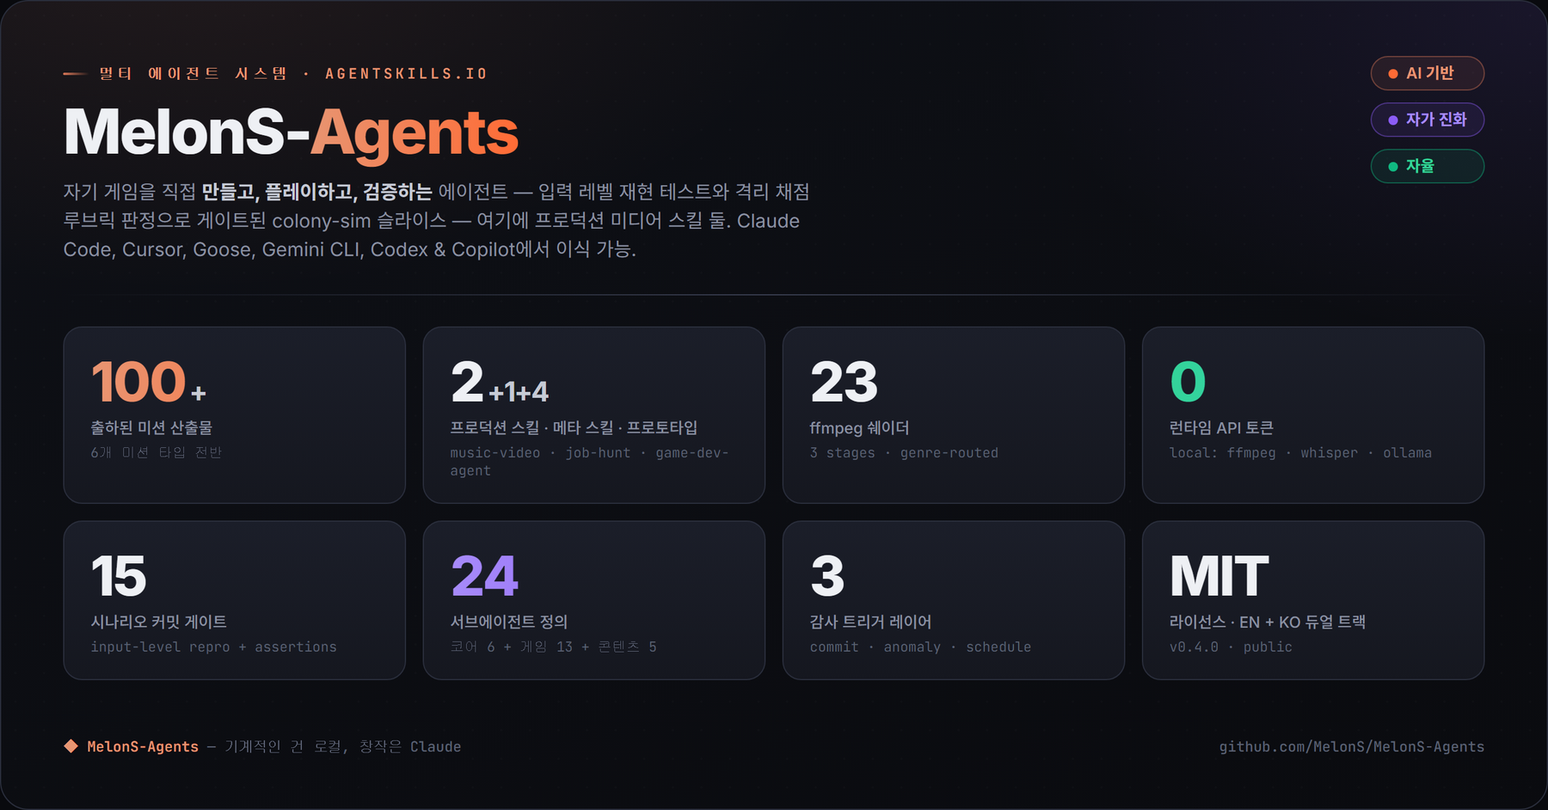
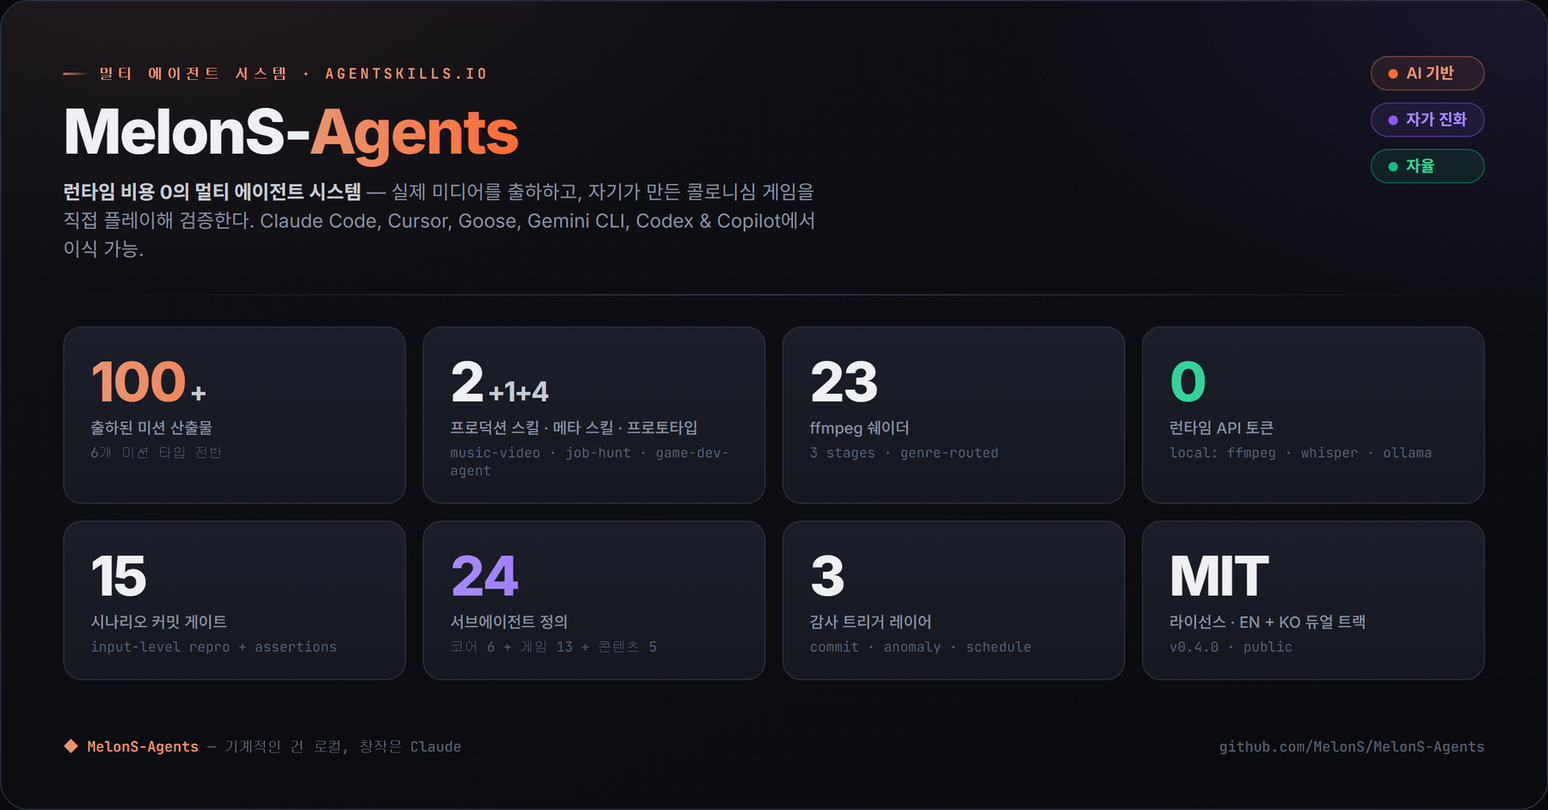
docs(readme): reframe identity to a system that ships + self-verifies (EN+KO)
The previous lead framed the whole repo as "an agent that builds a colony-sim
game" — too narrow. The repo is a zero-runtime-cost multi-agent SYSTEM whose
production tracks (music-video, job-hunt) actually ship, and whose self-
verification loop is the differentiator, not the identity.

- New lead (EN+KO): "a zero-runtime-cost multi-agent system that ships real
  work — and proves its rigor by building a game, then playing it to verify."
- Promote self-verification to right after the status table ("the part most
  agent demos skip"), moving the assert/soak/grader jargon out of the opening.
- Rename Architecture -> "How it stays at zero runtime cost".
- Add an honest bullet: "100+ outputs" is a working estimate, not an auditable
  ledger (records/ is gitignored).
- Regenerate the hero infographic (EN+KO) with a matching framework-first
  subtitle.

Changed region(s): [[0.0311, 0.2155, 0.5289, 0.3386]]

diff --git a/README.ko.md b/README.ko.md
@@ -4,9 +4,9 @@
 
 **한국어** | [English](./README.md) · [**라이브 사이트 →**](https://melons.github.io/MelonS-Agents/)
 
-**콜로니심 게임을 직접 만들고 — 그걸 플레이해서 자기 작업을 검증하는 AI 에이전트.**  실제 플레이어 클릭을 합성해 각 클릭이 (단지 클릭이 도달한 게 아니라) 실제로 게임 상태를 바꿨는지 어서트하고, 길게 무인으로 돌린 소크는 스크린샷과 로그만 보고 — 작성자의 의도는 절대 보지 않고 — 판정하는 별도 서브에이전트가 채점합니다.
+### 런타임 비용 0으로 실제 결과물을 출하하고 — 게임을 직접 만든 뒤 플레이해서 자기 작업을 검증하는 멀티 에이전트 시스템.
 
-이 자기 검증 루프가 MelonS-Agents 의 척추입니다 — [Claude Code](https://docs.anthropic.com/claude-code) 로 구동되는 멀티 에이전트 시스템.  콜로니심 **PawnSim**(Windows + Unity, *개발 중*)이 쇼케이스이고, 두 미디어 파이프라인은 이미 실제 결과물을 출하합니다 — **music-video** 메이커(음악 → 60초 9:16 쇼츠, Mac/Linux 에서 ~60초)와 **job-hunt** 다이제스트(키워드 하나 → 중복 제거된 한국 채용공고 요약, ~5초) — 여기에 세 번째로 저작권 검수를 거치는 **content-shorts** 파이프라인이 초기 개발 중입니다.  로컬 오픈소스 도구(ffmpeg / whisper.cpp / ollama / aubio)가 기계적 작업을 하고 Claude 는 오케스트레이션 + 창작 판단을 맡아 — 미션당 **런타임 API 토큰 0개**.  첫날부터 영어 + 한국어.
+운영자 한 명, [Claude Code](https://docs.anthropic.com/claude-code) 에이전트 함대.  두 파이프라인이 이미 실제 결과물을 출하합니다 — **music-video** 메이커(음악 → 60초 9:16 쇼츠)와 **job-hunt** 다이제스트(키워드 → 중복 제거된 한국 채용공고 요약) — 전부 로컬 오픈소스 도구(ffmpeg / whisper.cpp / ollama / aubio)로 만들어 미션당 **런타임 API 토큰 0개**.  쇼케이스 트랙인 콜로니심 **PawnSim** 이 이 저장소를 남다르게 만드는 특성을 품고 있습니다: 에이전트가 게임을 *직접 만들고*, 그걸 *플레이해서* 자기 작업을 검증합니다.  **첫날부터 영어 + 한국어.**
 
 [![main-protection](https://github.com/MelonS/MelonS-Agents/actions/workflows/main-protection.yml/badge.svg?branch=main)](https://github.com/MelonS/MelonS-Agents/actions/workflows/main-protection.yml)
 ![GitHub last commit](https://img.shields.io/github/last-commit/MelonS/MelonS-Agents?style=flat-square)
@@ -32,9 +32,20 @@
 | **content-shorts** · 4팀 법률 게이트 파이프라인이 제작 | 주제 → 출처 확보·저작권 검수된 9:16 쇼츠 (정보/뉴스/아이돌 포맷) | 개발 중 | ⚠ end-to-end 작동(2026-07-01), Pexels 키 필요 |
 | **product-cf** | 제품 사진 → CF 스타일 쇼츠 | 보류 | ❌ 정직한 부정 결론으로 보류 |
 
-<sub>\*"프로덕션" = 정해진 주기로 실제 결과물을 출하 (이 둘이 핵심 카운트).  `game-dev-agent` 는 PawnSim 을 만드는 메타 스킬 — PawnSim 이 출하 주기에 도달하면 프로덕션 카운트로 승격됩니다.</sub>
+<sub>\*"프로덕션" = 정해진 주기로 실제 결과물을 출하 (오늘 기준 이 둘만 해당).  `game-dev-agent` 는 PawnSim 을 만드는 메타 스킬 — PawnSim 이 출하 주기에 도달하면 프로덕션 카운트로 합류합니다.</sub>
 
-**핵심 용어** — *재현 게이트(repro gate)*: 에이전트가 실제 플레이어 클릭을 재생하고, 클릭이 도달했는지가 아니라 각 클릭이 효과를 냈는지를 어서트합니다.  *격리 채점(isolated grader)*: 작성자의 의도가 아니라 스크린샷 + 로그만으로 실행을 판정하는 별도 서브에이전트.  *소크(soak)*: 길게 돌리는 무인 테스트 런.
+## 대부분의 에이전트 데모가 건너뛰는 부분: 자기 작업을 스스로 검증한다
+
+![검증 — 두 게이트: 커밋마다 15시나리오 입력 레벨 재현 게이트 + 장시간 소크에 격리 채점 서브에이전트](docs/visuals/14-verification-loop-ko.png)
+
+에이전트가 코드를 *뱉게* 만드는 건 누구나 한다. 어려운 건 결과가 실제로 작동함을 *증명*하는 것 — 그게 이 저장소의 척추입니다.  PawnSim 은 들어오는 길에 두 게이트를 통과합니다:
+
+- **커밋마다 15시나리오 재현 게이트.**  에이전트가 플레이어와 똑같은 UI 경로로 실제 클릭을 합성하고, 각 클릭이 (단지 도달한 게 아니라) *효과*를 냈는지 — "그 클릭이 지정(designation)을 놓았는지" — 어서트합니다.
+- **장시간 무인 소크에 격리 채점 서브에이전트.**  증거(스크린샷 + 원시 로그)만 보고 작성자의 의도는 절대 보지 않으며, 작성된 루브릭에 따라 실행을 채점합니다.
+
+이 채점기는 셀프 리뷰가 놓친 것을 반복해서 잡아냈습니다: 모든 지정을 조용히 무효화하던 하네스 사각지대, "식량이 넘치는데 콜로니가 굶어 죽는" 기분 게이트 함정, 영구 정신 붕괴로 인한 콜로니 프리즈.  기본 루프(저장 → 집짓기 → 농사 → 벌목 → 채광)는 이제 엔드투엔드 기계 검증되며, 루브릭 판정이 수정과 함께 커밋됩니다.  *문제 → 제약 → 결정 → 산출물* 형식의 9개 인시던트: [`docs/engineering-case-studies.ko.md`](docs/engineering-case-studies.ko.md).
+
+**핵심 용어** — *재현 게이트*: 실제 플레이어 클릭을 재생하고 각 클릭이 효과를 냈는지 어서트.  *격리 채점*: 스크린샷 + 로그만으로 판정하는 별도 서브에이전트.  *소크*: 길게 돌리는 무인 테스트 런.
 
 ## 60초 안에 시작
 
@@ -48,17 +59,6 @@ cd MelonS-Agents
 
 Pexels 가입 없음, Suno 왕복 없음, `.env` 편집 없음 — 마법사가 데모 캐시를 받아 번들된 CC-BY 클립 + 음악으로 60초 쇼츠를 렌더합니다.  수동·고급·스킬별 경로는 아래 **실행 경로**에 접혀 있습니다.
 
-## 검증 — 에이전트가 자기 작업을 확인하는 방식
-
-![검증 — 두 게이트: 커밋마다 15시나리오 입력 레벨 재현 게이트 + 장시간 소크에 격리 채점 서브에이전트](docs/visuals/14-verification-loop-ko.png)
-
-대부분의 에이전트 데모가 건너뛰는 부분입니다.  PawnSim 은 들어오는 길에 두 게이트를 통과합니다:
-
-- **커밋마다 15시나리오 입력 레벨 재현 게이트.**  에이전트가 플레이어와 똑같은 UI 경로로 실제 클릭을 합성하고, 각 클릭이 (단지 도달한 게 아니라) *효과*를 냈는지 — "그 클릭이 지정(designation)을 놓았는지" — 어서트합니다.
-- **장시간 소크에 격리 채점 서브에이전트.**  증거(스크린샷 + 원시 로그)만 보고 작성자의 의도는 절대 보지 않으며, 작성된 루브릭에 따라 실행을 채점합니다.
-
-이 채점기는 셀프 리뷰가 놓친 것을 반복해서 잡아냈습니다: 모든 지정을 조용히 무효화하던 하네스 사각지대, "식량이 넘치는데 콜로니가 굶어 죽는" 기분 게이트 함정, 영구 정신 붕괴로 인한 콜로니 프리즈.  기본 콜로니 루프(저장 → 집짓기 → 농사 → 벌목 → 채광)는 이제 엔드투엔드 기계 검증되며, 루브릭 판정이 수정과 함께 커밋됩니다.  *문제 → 제약 → 결정 → 산출물* 형식으로 정리한 9개 프로덕션 인시던트: [`docs/engineering-case-studies.ko.md`](docs/engineering-case-studies.ko.md).
-
 ## 움직이는 PawnSim
 
 ![PawnSim 2026-06-12 — 풀밭 위 초기 콜로니: 체력·기분 바를 단 이름표 콜로니스트 셋, 우상단에 올라가는 목재 벽 골조(32px 톱다운 블록 벽), 모은 목재와 흩어진 광맥·돌, 실시간 자원 카운터, 하단에 열린 건축 메뉴](docs/demo/pawnsim-2026-06-12-built-house.png)
@@ -71,15 +71,15 @@ Pexels 가입 없음, Suno 왕복 없음, `.env` 편집 없음 — 마법사가 
 
 음악 → 음악이 메인 오디오인 9:16 쇼츠: 비트 정렬 컷, onset 정렬 글리치 마이크로 에디트, 그리고 여섯 가지 장르별 컬러 그레이드(+ 중립 패스스루) 중 하나가 평범한 스톡 B-roll 을 장르 코드가 입혀진 룩으로 만듭니다.  2026-05-17 에 이전의 내레이션 기반 포맷을 밀어내고 채택됐습니다.  전체 파이프라인 — 23 쉐이더, 장르 카탈로그, v1→v6 진화: [`docs/music-video-pipeline-reference.md`](docs/music-video-pipeline-reference.md).
 
-## 아키텍처
+## 어떻게 런타임 비용 0을 유지하나
 
 ![3-shape 스킬 모델 — Shape A 미션 라우팅 5에이전트 파이프라인, Shape B 독립형, Shape ? 미래 스킬](docs/visuals/05-three-shapes-ko.png)
 
-시스템은 모든 스킬을 하나의 형태로 강제하지 않습니다.  **Shape A** 는 5에이전트 미션 파이프라인(orchestrator + planner / resourcer / editor / qa)으로 라우팅하고, **Shape B** 는 planner/qa 단계가 거의 빌 때 쓰는 독립 스크립트입니다.  서브에이전트는 대화 기록을 공유하지 않고 — 커밋된 파일(`plan.md` / `MANIFEST.md` / `qa-report.md`)로 핸드오프하므로 각자의 컨텍스트와 비용이 제한됩니다.  역할별 모델 라우팅(planner/resourcer = opus, editor/qa = sonnet)과 비용 방화벽이 런타임 API 토큰을 0으로 유지합니다.  `.claude/agents/` 에는 정의 **24개**(코어 6 + 게임 로스터 13 + 콘텐츠 파이프라인 팀 5)가 있습니다.  전체 데이터 흐름 맵 + 게임 프로토타입 빌드 체인: [`docs/architecture.md`](docs/architecture.md).
+시스템은 모든 스킬을 하나의 형태로 강제하지 않습니다.  **Shape A** 는 5에이전트 미션 파이프라인(orchestrator + planner / resourcer / editor / qa)으로 라우팅하고, **Shape B** 는 planner/qa 단계가 거의 빌 때 쓰는 독립 스크립트입니다.  서브에이전트는 대화 기록을 공유하지 않고 — 커밋된 파일(`plan.md` / `MANIFEST.md` / `qa-report.md`)로 핸드오프하므로 각자의 컨텍스트와 비용이 제한됩니다.  역할별 모델 라우팅(planner/resourcer = opus, editor/qa = sonnet)과 비용 방화벽이 Anthropic 토큰을 오케스트레이션에만 한정합니다 — 미션 실행은 전부 로컬 도구로 돌아 런타임 API 토큰이 **0**으로 유지됩니다.  `.claude/agents/` 에는 정의 **24개**(코어 6 + 게임 로스터 13 + 콘텐츠 파이프라인 팀 5)가 있습니다.  전체 데이터 흐름 맵 + 게임 프로토타입 빌드 체인: [`docs/architecture.md`](docs/architecture.md).
 
 ## 자율성 신호 — 주장이 아니라 측정
 
-![2패널 개입 추세 — 패널 A(일별 커밋 귀속)는 일별 커밋 수를 개시자별(에이전트 자율=파랑 vs 사용자 개시=빨강)로 쌓고 사용자 개시 비율선과 일별 비율 라벨을 표시; 패널 B(운영자 관여)는 로컬 Claude Code 세션 JSONL 에서 추출한 일별 운영자 프롬프트와 활성 세션 분을 차트로.  한국어 미러는 docs/metrics/intervention-ko.png.](docs/metrics/intervention-ko.png)
+![2패널 개입 추세 — 패널 A(일별 커밋 귀속)는 일별 커밋 수를 개시자별(에이전트 자율=파랑 vs 사용자 개시=빨강)로 쌓고 사용자 개시 비율선과 일별 비율 라벨을 표시; 패널 B(운영자 관여)는 로컬 Claude Code 세션 JSONL 에서 추출한 일별 운영자 프롬프트와 활성 세션 분을 차트로.](docs/metrics/intervention-ko.png)
 
 끊임없는 조종이 필요한 멀티 에이전트 시스템은 대체하려던 그 수고를 벗어나지 못한 것입니다.  그래서 `main` 의 모든 커밋을 **사용자 개시** vs **에이전트 자율**로 분류하고, 운영자의 Claude Code 세션 로그에서 프롬프트 수 + 활성 분을 추출합니다 — 목표는 시스템이 더 많은 결정을 흡수하면서 두 패널이 모두 하향하는 것.  분류 휴리스틱 + 감축 분석: [`docs/research/2026-05-22-intervention-reduction.md`](docs/research/2026-05-22-intervention-reduction.md).
 
@@ -89,6 +89,7 @@ Pexels 가입 없음, Suno 왕복 없음, `.env` 편집 없음 — 마법사가 
 
 - **`product-cf` 는 보류** — 실제 부정 결론 때문입니다.  무료 / 로컬로 "진짜 3D 처럼 만들기"(depth-parallax, 실린더 래핑 턴테이블, 로컬 image-to-video) 접근은 16 GB 머신에서 진짜 CF 품질 기준을 넘지 못했습니다; 설득력 있는 결과엔 유료 클라우드 image-to-video 또는 더 큰 GPU 가 필요합니다.  트리에 게이트 오프 상태로 보존, 결정 보류.
 - **셀 셰이딩은 의도적으로 연기** — ffmpeg 의 한계가 어디인지 아는 것이 결과를 가짜로 만드는 것보다 낫습니다.
+- **`출력 100+` 는 원장이 아니라 어림값** — 미션 출력은 `records/`(gitignore) 아래 로컬에 남으므로 이 수치는 저장소만으로 독립 감사할 수 없습니다.
 
 더 많은 부정 결과와 보류 범위: [`skills/game-prototype/README.md`](skills/game-prototype/README.md)(정직한 검증 상태 + out-of-scope).  해결된 이슈 로그(예: Homebrew ffmpeg/libass 분리): [`docs/known-limitations.md`](docs/known-limitations.md).
 

diff --git a/README.md b/README.md
@@ -4,9 +4,9 @@
 
 [한국어](./README.ko.md) · **English** · [**Live site →**](https://melons.github.io/MelonS-Agents/)
 
-**An AI agent that builds a colony-sim game — then plays it to verify its own work.**  It synthesizes real player clicks, asserts each one actually changed the game state (not just that the click landed), and grades long unattended soaks with a separate sub-agent that judges only from screenshots and logs — never the author's intent.
+### A zero-runtime-cost multi-agent system that ships real work — and proves its own rigor by building a game, then playing it to verify itself.
 
-That self-verification loop is the spine of MelonS-Agents, a multi-agent system driven by [Claude Code](https://docs.anthropic.com/claude-code).  The colony-sim **PawnSim** (Windows + Unity, *in development*) is the showcase; two media pipelines already ship real deliverables — a **music-video** maker (a song in → a 60-second 9:16 short, ~60 s on Mac/Linux) and a **job-hunt** digest (one keyword → a deduplicated Korean job-board summary, ~5 s) — with a third, a copyright-reviewed **content-shorts** pipeline, in early development.  Local open-source tools (ffmpeg / whisper.cpp / ollama / aubio) do the mechanical work while Claude orchestrates and makes the creative calls — so a mission costs **zero runtime API tokens**.  English + Korean from day one.
+One operator, a fleet of [Claude Code](https://docs.anthropic.com/claude-code) agents. Two pipelines already ship real deliverables — a **music-video** maker (a song → a 60-second 9:16 short) and a **job-hunt** digest (a keyword → a deduplicated Korean job-board summary) — built entirely from local open-source tools (ffmpeg / whisper.cpp / ollama / aubio), so a mission spends **zero runtime API tokens**. Its showcase track, the colony-sim **PawnSim**, carries the trait that sets this apart: the agent *builds* the game, then *plays* it to verify its own work. **English + Korean from day one.**
 
 [![main-protection](https://github.com/MelonS/MelonS-Agents/actions/workflows/main-protection.yml/badge.svg?branch=main)](https://github.com/MelonS/MelonS-Agents/actions/workflows/main-protection.yml)
 ![GitHub last commit](https://img.shields.io/github/last-commit/MelonS/MelonS-Agents?style=flat-square)
@@ -28,13 +28,24 @@ That self-verification loop is the spine of MelonS-Agents, a multi-agent system 
 |-------|--------------|--------|----------------|
 | **music-video** | a song in → a 60-second 9:16 short (beat-aligned cuts, vintage ffmpeg shaders) | Production\* | ✅ Mac/Linux — `./scripts/first-touch.sh`, ~60 s |
 | **job-hunt** | one seed keyword → a deduplicated Korean job-board digest (11 sources) | Production\* | ✅ ~5 s, no network or keys |
-| **PawnSim** · built by `game-dev-agent` | a self-tested colony-sim game prototype | In development | ⚠ Windows + Unity 6000.0.75f1 |
+| **PawnSim** · built by `game-dev-agent` | a self-verified colony-sim game prototype | In development | ⚠ Windows + Unity 6000.0.75f1 |
 | **content-shorts** · built by a 4-team legal-gated pipeline | a topic → a sourced, copyright-reviewed 9:16 short (info / news / idol formats) | In development | ⚠ runs end-to-end (2026-07-01); needs a Pexels key |
 | **product-cf** | a product photo → a CF-style short | Parked | ❌ parked on an honest negative finding |
 
-<sub>\*"Production" = ships a real deliverable on a schedule (these two are the load-bearing count).  `game-dev-agent` is the meta-skill that builds PawnSim; it graduates into the production count once PawnSim hits its deliverable schedule.</sub>
+<sub>\*"Production" = ships a real deliverable on a schedule (only these two count today).  `game-dev-agent` is the meta-skill that builds PawnSim; it joins the production count once PawnSim ships on a cadence.</sub>
 
-**Key terms** — *repro gate*: the agent replays real player clicks and asserts each had an effect, not just that the click landed.  *Isolated grader*: a separate sub-agent that judges a run from screenshots + logs only, never the author's intent.  *Soak*: a long, unattended test run.
+## The part most agent demos skip: it checks its own work
+
+![Verification — two gates: a 15-scenario input-level repro gate per commit + an isolated grader sub-agent on long soaks](docs/visuals/14-verification-loop.png)
+
+Anyone can make an agent *emit* code. The hard part is proving the result actually works — and that's the spine of this repo. PawnSim passes two gates before anything lands:
+
+- **A 15-scenario repro gate on every commit.** The agent synthesizes real player clicks through the same UI a player uses, and asserts each one had an *effect* ("the click placed a designation") — not just that the click landed.
+- **An isolated grader on long unattended soaks.** A separate sub-agent sees only evidence (screenshots + raw logs), never the author's intent, and grades the run against a written rubric.
+
+That grader repeatedly caught what self-review missed: a silent harness blind spot that had voided *every* designation, a "food-rich colony starving to death" mood-gate trap, and a permanent-mental-break colony freeze. The basic loop (stockpile → housing → farming → logging → mining) is now machine-verified end-to-end, with the rubric verdicts committed alongside the fixes. Nine incidents, each written up *problem → constraint → decision → artifact*: [`docs/engineering-case-studies.md`](docs/engineering-case-studies.md).
+
+**Key terms** — *repro gate*: replay real player clicks, assert each had an effect.  *isolated grader*: a separate sub-agent that judges from screenshots + logs only.  *soak*: a long, unattended test run.
 
 ## Try it in ~60 seconds
 
@@ -46,18 +57,7 @@ cd MelonS-Agents
 ./scripts/first-touch.sh        # guided demo: checks tools, renders a 9:16 short, opens it
 ```
 
-No Pexels signup, no Suno round-trip, no `.env` edit — the wizard fetches a demo cache and renders a 60-second short from bundled CC-BY clips + music.  Manual, advanced, and per-skill paths are folded under **Run paths** below.
-
-## Verification — how the agent checks its own work
-
-![Verification — two gates: a 15-scenario input-level repro gate per commit + an isolated grader sub-agent on long soaks](docs/visuals/14-verification-loop.png)
-
-This is the part most agent demos skip.  PawnSim passes two gates on the way in:
-
-- **A 15-scenario input-level repro gate on every commit.**  The agent synthesizes real clicks through the same UI path a player uses, and asserts each one had an *effect* ("the click placed a designation") — not just that the click landed.
-- **An isolated-grader sub-agent on long soaks.**  It sees only evidence (screenshots + raw logs), never the author's intent, and grades the run against a written rubric.
-
-That grader repeatedly caught what self-review missed: a silent harness blind spot that had voided every designation, a "food-rich colony starving to death" mood-gate trap, and a permanent-mental-break colony freeze.  The basic colony loop (stockpile → housing → farming → logging → mining) is now machine-verified end-to-end, with the rubric verdicts committed alongside the fixes.  Nine production incidents, each written up as *problem → constraint → decision → artifact*: [`docs/engineering-case-studies.md`](docs/engineering-case-studies.md).
+No Pexels signup, no Suno round-trip, no `.env` edit — the wizard fetches a demo cache and renders a 60-second short from bundled CC-BY clips + music.  Manual, advanced, and per-skill paths are under **Run paths** below.
 
 ## PawnSim in motion
 
@@ -71,11 +71,11 @@ Colonists chop / mine / farm / cook / haul / build / research / fight under a ut
 
 A song in → a music-as-primary-audio 9:16 short out: beat-aligned cuts, onset-aligned glitch micro-edits, and one of six per-genre color grades (plus a neutral pass-through) shaping generic stock B-roll into a genre-coded look.  Picked over the earlier narration-driven format on 2026-05-17.  Full pipeline — 23 shaders, the genre catalog, the v1→v6 evolution: [`docs/music-video-pipeline-reference.md`](docs/music-video-pipeline-reference.md).
 
-## Architecture
+## How it stays at zero runtime cost
 
 ![The 3-shape skill model — Shape A missions-routed 5-agent pipeline, Shape B standalone, Shape ? future skills](docs/visuals/05-three-shapes.png)
 
-The system doesn't force every skill through one shape.  **Shape A** routes through a 5-agent mission pipeline (orchestrator + planner / resourcer / editor / qa); **Shape B** is a standalone script when planner/qa stages would be near-empty.  Subagents share no conversation history — they hand off through committed files (`plan.md` / `MANIFEST.md` / `qa-report.md`), so each one's context and cost stay bounded.  Per-role model routing (planner/resourcer = opus, editor/qa = sonnet) plus a cost firewall keep runtime API tokens at zero.  `.claude/agents/` holds **24** definitions (6 core + 13 game roster + 5 content-pipeline teams).  Full data-flow map + the game-prototype build chain: [`docs/architecture.md`](docs/architecture.md).
+The system doesn't force every skill through one shape.  **Shape A** routes through a 5-agent mission pipeline (orchestrator + planner / resourcer / editor / qa); **Shape B** is a standalone script when planner/qa stages would be near-empty.  Subagents share no conversation history — they hand off through committed files (`plan.md` / `MANIFEST.md` / `qa-report.md`), so each one's context and cost stay bounded.  Per-role model routing (planner/resourcer = opus, editor/qa = sonnet) plus a cost firewall keep Anthropic tokens to orchestration only — mission execution runs entirely on local tools, so runtime API tokens stay at **zero**.  `.claude/agents/` holds **24** definitions (6 core + 13 game roster + 5 content-pipeline teams).  Full data-flow map + the game-prototype build chain: [`docs/architecture.md`](docs/architecture.md).
 
 ## Autonomy signal — measured, not claimed
 
@@ -89,6 +89,7 @@ Documented negatives, kept in the open — because honest scoping is the credibi
 
 - **`product-cf` is parked** on a real negative finding.  The free / local "make it genuinely 3D" approaches (depth-parallax, cylinder-wrap turntable, local image-to-video) didn't clear a real-CF quality bar on a 16 GB machine; a convincing result needs paid cloud image-to-video or a bigger GPU.  Kept gated-off in the tree, decision pending.
 - **Cel-shading was deliberately deferred** — knowing where the ffmpeg wall is beats faking the result.
+- **`100+ outputs` is a working estimate, not a ledger** — mission outputs stay local under `records/` (gitignored), so the count isn't independently auditable from the repo.
 
 More negatives and deferred scope: [`skills/game-prototype/README.md`](skills/game-prototype/README.md) (honest verification status + out-of-scope).  Resolved-issue log (e.g. the Homebrew ffmpeg/libass split): [`docs/known-limitations.md`](docs/known-limitations.md).
 
